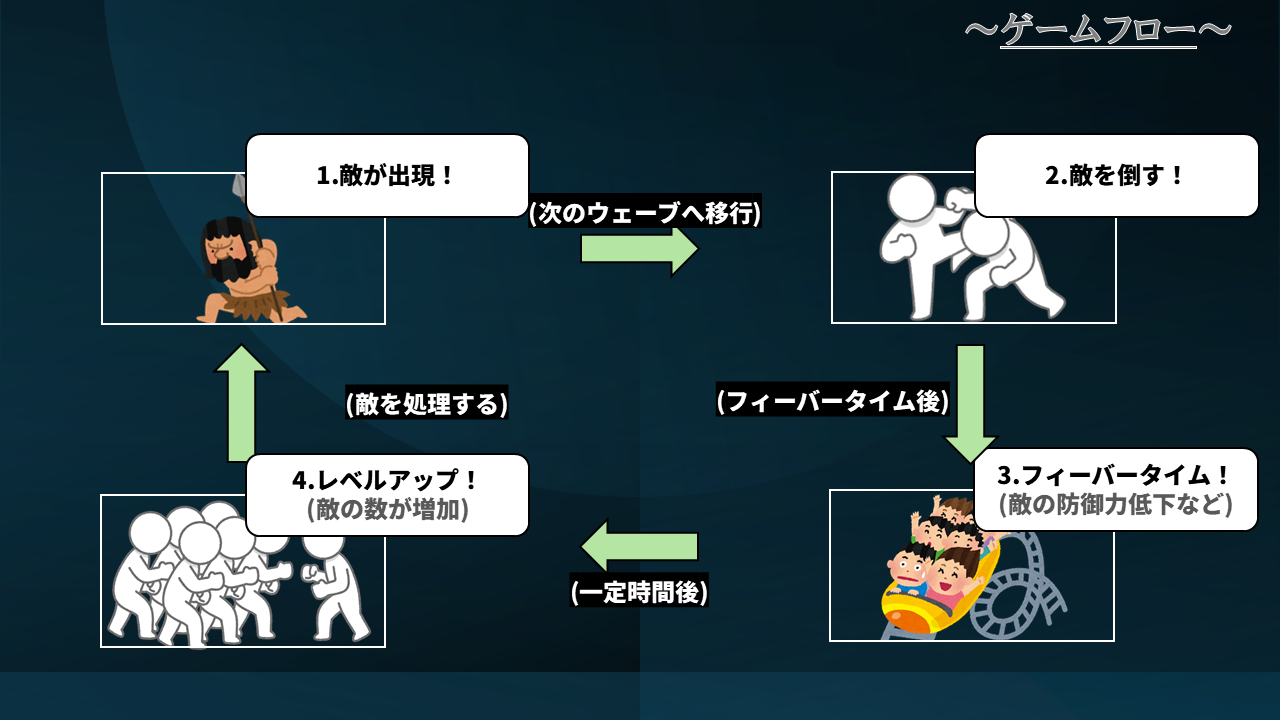
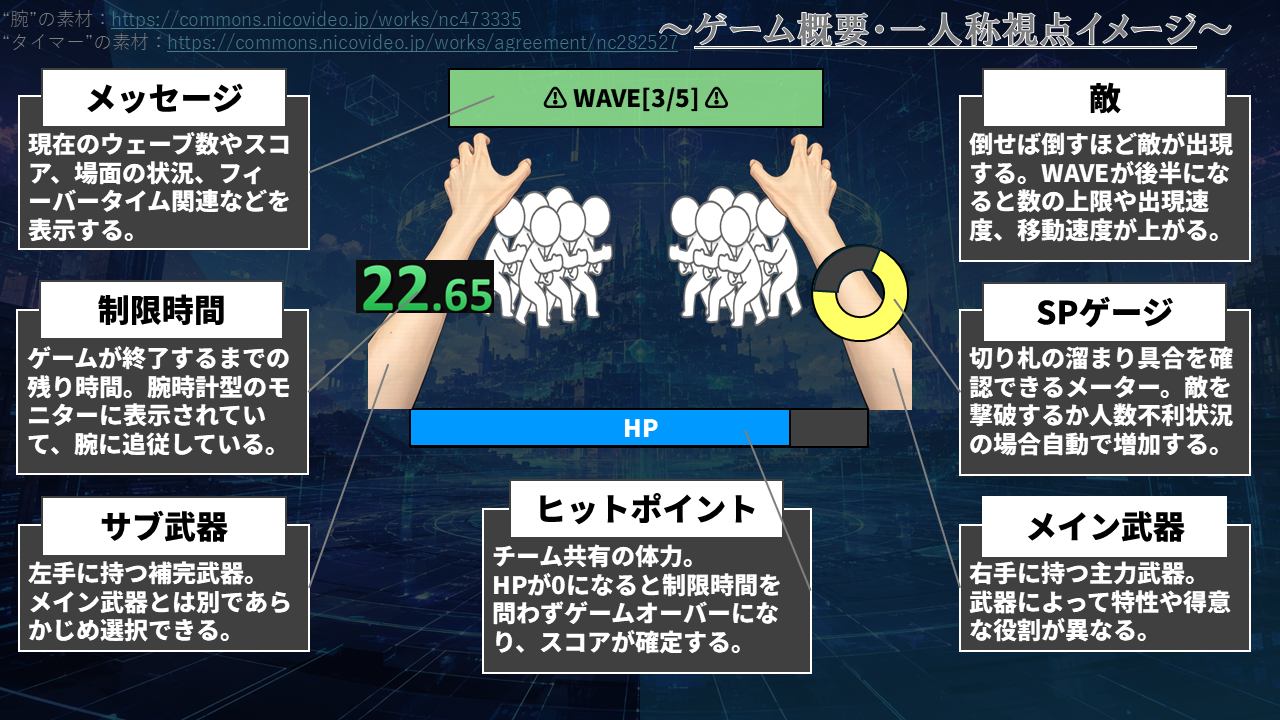
説明の文章を修正

diff --git a/works.html b/works.html
@@ -94,12 +94,12 @@
         <sub>
           <section class="comment">
             <div>
-              <h2>本格的なチーム制作 ※2026/07/09現在進行中</h2>
+              <h2>本格的なチーム制作 ※現在進行中(2026/07/16)</h2>
               <p>
                 企画の立案からサーバーサイドにデバッグまで、11人のメンバーで全ての工程をこなします。「広大な遊園地の中に、世界観の異なる"ミニゲームのアトラクション"がある」という設定のカジュアルVRゲームです。※画像は開発初期の構想段階のものです。
               </p>
               <p>
-                私は主にプランナー的立ち位置として、各ミニゲームごとの簡易的な企画書の作成・環境音やフォントの加工に加え、ほぼ全てのゲーム内BGM/SEの厳選/監修をしました。
+                私は主にプランナー的立ち位置として、各ミニゲームごとの簡易的な企画書の作成・環境音やフォントの加工・デバッグに加え、ほぼ全てのゲーム内BGM/SEの厳選/監修をしました。
               </p>
               ・フォント:けいふぉんと
             </div>
@@ -184,7 +184,7 @@
             <div>
               <h2>合成音声実況チャンネル</h2>
               <p>
-                YouTube活動専用アカウントを作成し、複数のソフトや機材を活用しながら、趣味でゲーム実況動画を投稿しています。動画編集ソフトはAviUtl2を使用しており、音声エフェクト/カメラ移動/3D等の演出が、このソフト1つで完結しています。
+                YouTube活動専用アカウントを作成し、複数のソフトや機材を活用しながら、趣味でゲーム実況動画を投稿しています。動画編集ソフトはAviUtl2を使用しており、音声エフェクト/カメラ移動/3D等の演出は、このソフト1つで完結しています。
               </p>
 
               ♪不老不死／Losstime Life
@@ -229,7 +229,7 @@
             <div>
               <h2>オリジナルキャラクターの作成</h2>
               <p>
-                サンドボックスサバイバルゲーム「Minecraft」内で使用することのできるスキンです。キャラクターの設定や特徴を1から考え、動画投稿サイトなどを参考に自作したものです。現在は、私が運営しているYoutubeチャンネルのゲーム実況動画にも登場しています。
+                サンドボックスサバイバルゲーム「Minecraft」内で使用することのできるスキンです。キャラクターの設定や特徴を1から考え、動画投稿サイトなどを参考に自作したものです。現在は、私が趣味で運営しているYoutubeチャンネルのゲーム実況動画にも登場しています。
               </p>
             </div>
           </section>
@@ -272,7 +272,7 @@
               <h2>3Dアニメーション初の試み</h2>
               <p>
                 世界的に知名度の高いゲーム「Minecraft-JavaEdition」内で制作した機能付きの戦車を、動画配信サイトを参考に複数のソフトを駆使しながらBlenderに生成し、アニメーションを加えたものです。
-                現在は、Minecraft内で戦闘艦の製作が進行中です。
+                現在Minecraft内で戦闘艦の製作が進行中、こちらも最終的に3Dソフトによるアニメーションを加える予定です。
               </p>
             </div>
           </section>
@@ -283,7 +283,7 @@
         <work>
           <section class="maincontent-type1">
             <div>
-              <h1>三界(ThreeKai)</h1>
+              <h1>-ThreeKai-三界</h1>
               <p>ゲーム制作(Unity/仕様書)</p>
             </div>
           </section>
